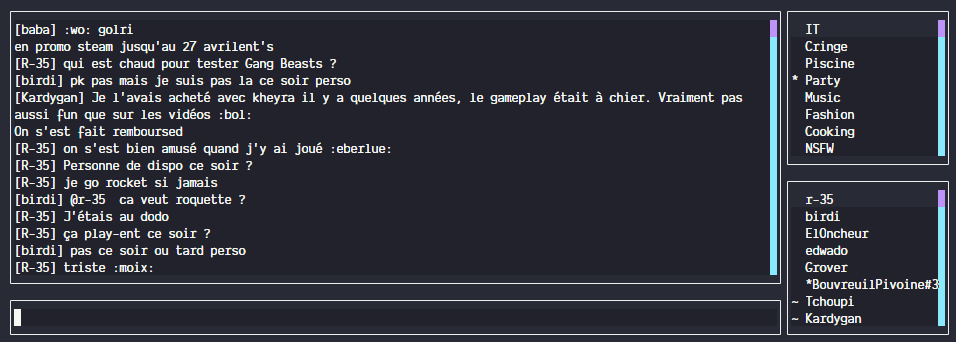
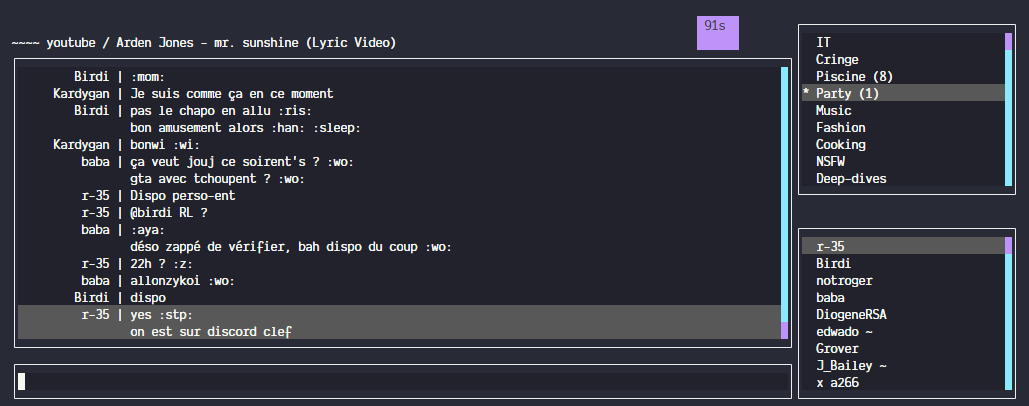
Styling adjustements & Improve README

Changed region(s): [[0.0, 0.0292, 1.0, 0.9942]]

diff --git a/src/render/component/Player.ts b/src/render/component/Player.ts
@@ -1,7 +1,7 @@
 import blessed from 'blessed';
-import { BOX_DEFAULT_OPTIONS, CHAT_PLAYER_PROGRESSBAR_WIDTH } from '../../constants.js';
-import { Component } from './Component.js';
+import { BOX_DEFAULT_OPTIONS, CHAT_PLAYER_HEIGHT, CHAT_PLAYER_PROGRESSBAR_WIDTH } from '../../constants.js';
 import { Page } from '../page/Page.js';
+import { Component } from './Component.js';
 
 export class Player extends Component<blessed.Widgets.BoxElement> {
     private readonly progressBar: blessed.Widgets.ProgressBarElement;
@@ -14,21 +14,21 @@ export class Player extends Component<blessed.Widgets.BoxElement> {
             page,
             blessed.box({
                 ...BOX_DEFAULT_OPTIONS,
-                border: undefined,
-                bg: undefined,
                 ...options,
+                border: undefined,
             }),
         );
 
         this.infoText = blessed.text({
             content: 'No media playing',
             width: `100%-${CHAT_PLAYER_PROGRESSBAR_WIDTH}`,
+            height: CHAT_PLAYER_HEIGHT,
         });
 
         this.progressBar = blessed.progressbar({
             orientation: 'horizontal',
             filled: 0,
-            height: 1,
+            height: CHAT_PLAYER_HEIGHT,
             right: 0,
             width: CHAT_PLAYER_PROGRESSBAR_WIDTH,
             style: {
@@ -60,10 +60,10 @@ export class Player extends Component<blessed.Widgets.BoxElement> {
         const duration = currentMedia.video.duration ?? 0;
         const currentTime = Date.now() - startTime;
         const progress = (currentTime / duration) * 100;
-        const remaining = Math.floor((duration - currentTime) / 1000);
+        const remaining = Math.max(0, Math.floor((duration - currentTime) / 1000));
         this.progressBar.setProgress(progress);
         this.progressBar.setContent(` ${remaining}s`);
-        this.infoText.setContent(`${'~'.repeat(4)} ${currentMedia.video.type} / ${currentMedia.video.title}`);
+        this.infoText.setContent(`\n${'~'.repeat(4)} ${currentMedia.video.type} / ${currentMedia.video.title}`);
     }
 
     destroy() {

diff --git a/src/constants.ts b/src/constants.ts
@@ -15,8 +15,12 @@ export const SCREEN_TITLE = 'SkyChat CLI';
  */
 export const CHAT_SIDEBAR_WIDTH = 32;
 export const CHAT_MESSAGE_INPUT_HEIGHT = 3;
-export const CHAT_PLAYER_HEIGHT = 1;
-export const CHAT_PLAYER_PROGRESSBAR_WIDTH = 20;
+export const CHAT_PLAYER_HEIGHT = 2;
+export const CHAT_PLAYER_PROGRESSBAR_WIDTH = 14;
+
+export const CHAT_BG_COLOR = '#030303';
+export const CHAT_BG_CONTRAST_COLOR = '#555555';
+export const CHAT_FG_COLOR = 'white';
 
 /**
  * Default display for blessed boxes
@@ -35,13 +39,26 @@ export const BOX_DEFAULT_OPTIONS: blessed.Widgets.BoxOptions = {
         type: 'line',
     },
     style: {
-        fg: 'white',
-        bg: 'black',
+        fg: CHAT_FG_COLOR,
+        bg: CHAT_BG_COLOR,
         border: {
             fg: '#f0f0f0',
         },
         scrollbar: {
             bg: 'blue',
+        },
+    },
+};
+
+export const LIST_DEFAULT_OPTIONS: blessed.Widgets.ListOptions<blessed.Widgets.ListElementStyle> = {
+    ...BOX_DEFAULT_OPTIONS,
+    style: {
+        ...BOX_DEFAULT_OPTIONS.style,
+        selected: {
+            bg: CHAT_BG_CONTRAST_COLOR,
+        },
+        focus: {
+            bg: CHAT_BG_CONTRAST_COLOR,
         },
     },
 };

diff --git a/src/render/helper/message.ts b/src/render/helper/message.ts
@@ -1,15 +1,16 @@
-import blessed from 'blessed';
 import beautifyUrl from 'beautify-url';
-import { SanitizedMessage } from 'skychat/build/server';
+import blessed from 'blessed';
 import { RisiBank } from 'risibank-web-api';
+import { SanitizedMessage } from 'skychat/build/server';
+import { CHAT_BG_CONTRAST_COLOR } from '../../constants.js';
 
-const USERNAME_MAX_LEN = 20;
+const USERNAME_MAX_LEN = 12;
 
 const LINK_REGEXP: RegExp =
     /(^|[ \n]|<br>)((http|https):\/\/[\w?=&./-;#~%+@,[\]:!-]+(?![\w\s?&./;#~%"=+@,[\]:!-]*>))/gi;
 
 function replaceRisiBankStickers(message: string) {
-    return message.replace(RisiBank.Constants.RISIBANK_URL, '');
+    return message.replace(RisiBank.Constants.RISIBANK_CACHE_REGEX, '');
 }
 
 function replaceLinks(text: string) {
@@ -54,5 +55,6 @@ export function renderMessage(element: blessed.Widgets.BoxElement, message: Sani
         .join('\n');
 
     // Color
-    return `{/}${last ? '{#555555-bg}' : ''}${username} | ${chunkedContent}`;
+    const color = last ? `{${CHAT_BG_CONTRAST_COLOR}-bg}` : '';
+    return `{/}${color}${username} | ${chunkedContent}`;
 }

diff --git a/src/render/helper/room.ts b/src/render/helper/room.ts
@@ -4,7 +4,8 @@ import slugify from 'slugify';
 
 export function renderRoom(client: SkyChatClient, room: SanitizedRoom) {
     // If room is current room, add a star
-    const starStr = room.id === client.state.currentRoomId ? '*' : ' ';
+    const isCurrentRoom = room.id === client.state.currentRoomId;
+    const currentRoomStr = isCurrentRoom ? '*' : ' ';
 
     // Connected count
     const userCount = client.state.roomConnectedUsers[room.id]?.length ?? 0;
@@ -18,5 +19,5 @@ export function renderRoom(client: SkyChatClient, room: SanitizedRoom) {
     const name = slugify(room.name) || others.join(', ') || '- no one -';
 
     // Return the final string
-    return [starStr, privateRoomStr, name, userCountStr].filter(Boolean).join(' ');
+    return [currentRoomStr, privateRoomStr, name, userCountStr].filter(Boolean).join(' ');
 }

diff --git a/src/render/component/RoomList.ts b/src/render/component/RoomList.ts
@@ -1,5 +1,5 @@
 import blessed from 'blessed';
-import { BOX_DEFAULT_OPTIONS } from '../../constants.js';
+import { LIST_DEFAULT_OPTIONS } from '../../constants.js';
 import { Component } from './Component.js';
 import { Page } from '../page/Page.js';
 import { renderRoom } from '../helper/room.js';
@@ -9,8 +9,9 @@ export class RoomList extends Component<blessed.Widgets.ListElement> {
         super(
             page,
             blessed.list({
-                ...BOX_DEFAULT_OPTIONS,
+                ...LIST_DEFAULT_OPTIONS,
                 ...options,
+                tags: true,
             }),
         );
 

diff --git a/src/render/component/UserList.ts b/src/render/component/UserList.ts
@@ -1,5 +1,5 @@
 import blessed from 'blessed';
-import { BOX_DEFAULT_OPTIONS } from '../../constants.js';
+import { LIST_DEFAULT_OPTIONS } from '../../constants.js';
 import { Component } from './Component.js';
 import { Page } from '../page/Page.js';
 
@@ -8,7 +8,7 @@ export class UserList extends Component<blessed.Widgets.ListElement> {
         super(
             page,
             blessed.list({
-                ...BOX_DEFAULT_OPTIONS,
+                ...LIST_DEFAULT_OPTIONS,
                 ...options,
             }),
         );
